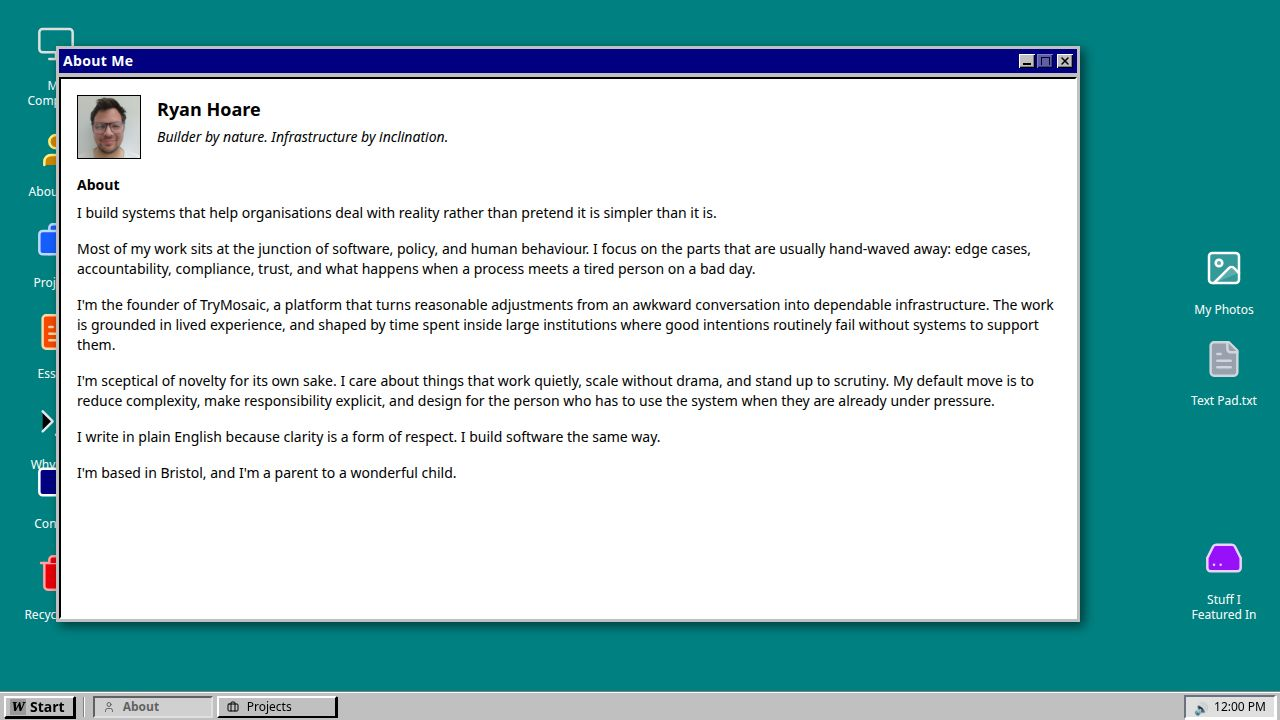
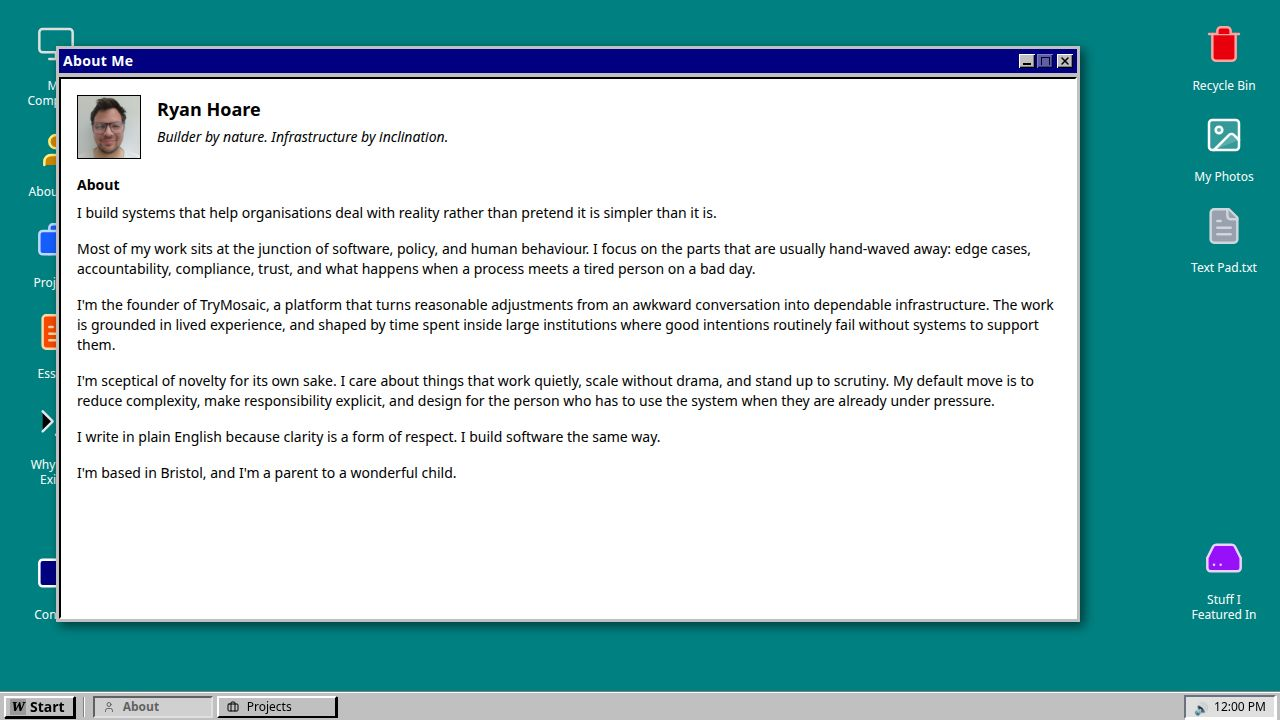
Move the recycle bin to the top right of the desktop screen
Update Desktop.tsx to reposition the Recycle Bin icon from the bottom-left to the top-right section of the desktop view.

Replit-Commit-Author: Agent
Replit-Commit-Session-Id: dfd3a784-4857-45d7-ad52-f2fc97a95906
Replit-Commit-Checkpoint-Type: full_checkpoint
Replit-Commit-Event-Id: b73a12ac-c6a5-4c8e-9bc7-604faeca2c1a
Replit-Commit-Screenshot-Url: https://storage.googleapis.com/screenshot-production-us-central1/fffca253-245f-41da-91de-806483427b21/dfd3a784-4857-45d7-ad52-f2fc97a95906/MLOY6LK
Replit-Helium-Checkpoint-Created: true

diff --git a/client/src/pages/Desktop.tsx b/client/src/pages/Desktop.tsx
@@ -156,6 +156,10 @@ export default function Desktop() {
           }
           onClick={() => openFromIcon("contact")}
         />
+      </div>
+
+      {/* Desktop Icons - Right */}
+      <div className="absolute top-4 right-4 flex flex-col gap-3 z-0">
         <DesktopIcon
           label="Recycle Bin"
           icon={
@@ -163,10 +167,6 @@ export default function Desktop() {
           }
           onClick={() => openFromIcon("recyclebin")}
         />
-      </div>
-
-      {/* Desktop Icons - Right */}
-      <div className="absolute top-1/3 right-4 flex flex-col gap-3 z-0">
         <DesktopIcon
           label="My Photos"
           icon={
